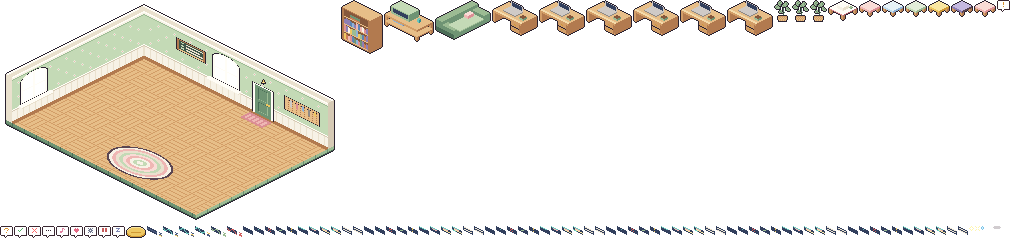
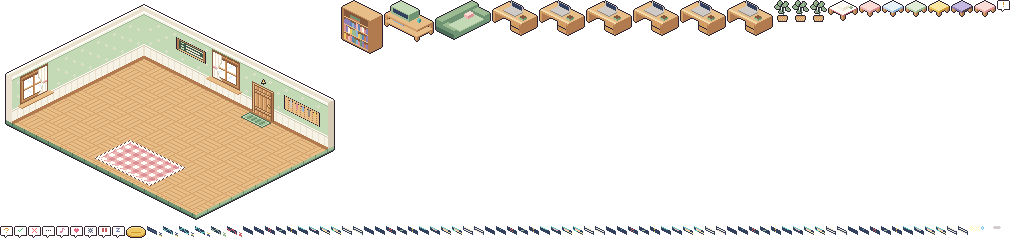
방: 러그·문·창문을 레퍼런스 도트 스타일로 다시 그림
- 창문: 원목 프레임·십자 창살·유리 사선 반짝임·한쪽으로 묶은 레이스 커튼
- 문: 세로 판자·가로 띠·못 자국·놋쇠 손잡이의 원목 문
- 러그: 타원 대신 깅엄 체크 피크닉 담요, 스티치 테두리
- 벽 장식은 픽셀 격자로 그려 두 시점 모두 1px 그대로 찍히게 함

Changed region(s): [[0.1875, 0.2042, 0.2812, 0.525], [0.0938, 0.5833, 0.1875, 0.7875], [0.0, 0.2625, 0.0625, 0.4667]]

diff --git a/tools/art/cottage.py b/tools/art/cottage.py
@@ -226,34 +226,115 @@ def arch_inside(u, z, u0, w, z0, h, inset=0):
 GLASS = object()   # marker: leave the pixel clear so the app's sky shows through
 
 
+# Wall fixtures are drawn as pixel grids: on a wall, half a unit along it and one unit up is
+# exactly one pixel in both cameras, so a grid cell maps 1:1 onto the screen (iso just shears it).
+def grid_at(grid, u, z, u0, ztop):
+    """the grid's cell under wall point (u, z); grid rows run top-down from height ztop"""
+    i, j = math.floor((u - u0) * 2), math.floor(ztop - z)
+    if 0 <= j < len(grid) and 0 <= i < len(grid[j]):
+        return grid[j][i]
+    return None
+
+
+def window_grid(w, h):
+    """wooden casement with a cross mullion, streaked glass and a gathered lace curtain on the left"""
+    g = [['h2'] * w for _ in range(h)]
+    for j in range(h):
+        for i in range(w):
+            if i == 0 or j == 0 or i == w - 1 or j == h - 1:
+                g[j][i] = 'h0'
+            elif j == 1 or i == 1:
+                g[j][i] = 'h3'
+            elif j == h - 2 or i == w - 2:
+                g[j][i] = 'h1'
+    x0, x1, y0, y1 = 3, w - 3, 5, h - 3            # glass area (header beam above it)
+    for i in range(2, w - 2):
+        g[2][i], g[3][i], g[4][i] = 'h2', 'h1', 'h0'
+    mx, my = w // 2 - 1, y0 + (y1 - y0) // 2 - 1
+    for j in range(y0, y1):
+        for i in range(x0, x1):
+            if i in (x0, x1 - 1) or j == y1 - 1:
+                g[j][i] = 'h0'
+            elif i in (mx, mx + 1):
+                g[j][i] = 'h2' if i == mx else 'h1'
+            elif j in (my, my + 1):
+                g[j][i] = 'h3' if j == my else 'h1'
+            elif j == y0:
+                g[j][i] = 'h0'
+            else:
+                g[j][i] = GLASS
+    # two short diagonal glints per pane
+    for pi, pj in ((x0 + 2, y0 + 2), (mx + 3, y0 + 2), (x0 + 2, my + 3), (mx + 3, my + 3)):
+        for d in range(4):
+            for t in (0, 1):
+                i, j = pi + 3 - d + t, pj + d
+                if g[j][i] is GLASS:
+                    g[j][i] = 'b3'
+    # curtain: straight under the rod, tied back at the middle, flaring to a lace hem
+    tie = y0 + (y1 - y0) // 2 + 2
+    for j in range(2, h - 1):
+        if j < tie:
+            wd = 9 - max(0, (j - 8)) * 5 // max(1, tie - 8)
+        else:
+            wd = 4 + (j - tie) * 5 // max(1, h - 2 - tie)
+        for i in range(1, 1 + wd):
+            edge = i == wd
+            if edge:
+                col = 'c0'
+            elif j == tie or j == tie - 1:
+                col = 'r1' if j == tie else 'r2'
+            elif (i + (1 if j > tie else 0)) % 3 == 0:
+                col = 'c1'
+            else:
+                col = 'c3'
+            g[j][i] = col
+        if j == h - 2:
+            for i in range(1, 1 + wd):
+                g[j][i] = 'c1' if i % 2 else 'c3'
+    for i in range(0, w):                           # curtain rod
+        g[1][i] = 'h0' if i in (0, w - 1) else ('y0' if i % 7 == 0 else 'h0')
+    return g
+
+
+def door_grid(w, h):
+    """wooden plank door in a frame: plank seams, a cross brace, nail dots and a brass knob"""
+    g = [['h2'] * w for _ in range(h)]
+    for j in range(h):
+        for i in range(w):
+            if i == 0 or i == w - 1 or j == 0:
+                g[j][i] = 'h0'
+            elif i in (1, w - 2) or j == 1:
+                g[j][i] = 'h3' if (i == 1 or j == 1) else 'h1'
+            elif i == 2 or i == w - 3 or j == 2:
+                g[j][i] = 'h0'
+            else:
+                k_ = (i - 3) % 4
+                g[j][i] = 'h1' if k_ == 3 else ('h3' if k_ == 0 else 'h2')
+    for bj in (6, h - 7):                           # cross braces
+        for i in range(3, w - 3):
+            g[bj][i] = 'h0'
+            g[bj + 1][i] = 'h3'
+            g[bj + 2][i] = 'h2'
+            g[bj + 3][i] = 'h0'
+        for i in range(4, w - 4, 4):
+            g[bj + 2][i] = 'h0'                     # nails
+    kx, ky = w - 6, h // 2
+    for (i, j), col in {(0, 0): 'h0', (1, 0): 'h0', (-1, 1): 'h0', (0, 1): 'y2', (1, 1): 'y1', (2, 1): 'h0',
+                        (-1, 2): 'h0', (0, 2): 'y1', (1, 2): 'y0', (2, 2): 'h0', (0, 3): 'h0', (1, 3): 'h0'}.items():
+        g[ky + j][kx + i] = col
+    return g
+
+
+WIN_GRID = window_grid(R_WIN[1] * 2, R_WIN[3])
+DOOR_GRID = door_grid(R_DOOR[1] * 2, R_DOOR[2])
+
+
 def window_col(u, z, u0, w, z0, h):
-    if not arch_inside(u, z, u0, w, z0, h):
-        return None
-    if not arch_inside(u, z, u0, w, z0, h, .5):
-        return 'ink'
-    if not arch_inside(u, z, u0, w, z0, h, 1.5):
-        return 'c3'
-    if abs(u - (u0 + w / 2)) < .5 or abs(z - (z0 + h * .45)) < .5:
-        return 'c3'
-    return GLASS
+    return grid_at(WIN_GRID, u, z, u0, z0 + h)
 
 
 def door_col(u, z, u0, w, h):
-    if not (u0 <= u < u0 + w and z < h):
-        return None
-    if u < u0 + .5 or u >= u0 + w - .5 or z >= h - .5:
-        return 'ink'
-    if u < u0 + 1.5 or u >= u0 + w - 1.5 or z >= h - 1.5:
-        return 'c3'
-    if abs(u - (u0 + w - 3)) < .8 and abs(z - h * .45) < .8:
-        return 'y1'
-    for pz0, pz1 in ((3, h * .42), (h * .5, h - 4)):
-        if u0 + 3 <= u < u0 + w - 3 and pz0 <= z < pz1:
-            if u < u0 + 3.5 or z >= pz1 - .7:
-                return 's0'
-            if u >= u0 + w - 3.5 or z < pz0 + .7:
-                return 's2'
-    return 's1'
+    return grid_at(DOOR_GRID, u, z, u0, h)
 
 
 def chalk_col(u, z, u0, w, z0, h, done=3):
@@ -302,16 +383,56 @@ def left_wall(u, z):
     return v if v is not None else wall_col(u, z)
 
 
-def rug(c):
-    cx, cy, rx, ry = RUG
-    rings = ['c2', 's3', 'c2', 'r2', 'r3', 's3', 'c1', 'r2', 'c2', 's3']
+def cloth(c, x0, y0, x1, y1, fill, rim, band):
+    """a flat cloth on the floor: rasterised first, then its rings are counted in screen pixels so the
+    stitched rim and the border band stay exactly 1 px wide in both cameras"""
+    cells = {}
 
-    def col(x, y):
-        d = math.sqrt(((x - cx) / rx) ** 2 + ((y - cy) / ry) ** 2)
-        if d > 1:
-            return None
-        return 'ink2' if d > .93 else rings[int(d * 9.6) % len(rings)]
-    face_top(c, cx - rx, cy - ry, cx + rx, cy + ry, 0, col)
+    class Rec:
+        def px(self, sx, sy, v):
+            cells[(sx, sy)] = v
+    face_top(Rec(), x0, y0, x1, y1, 0, lambda x, y: (x, y))
+    ring, edge = {}, [p for p in cells if any((p[0] + dx, p[1] + dy) not in cells
+                                              for dx, dy in ((1, 0), (-1, 0), (0, 1), (0, -1)))]
+    for p in edge:
+        ring[p] = 0
+    d = 0
+    while edge:
+        d += 1
+        nxt = []
+        for (sx, sy) in edge:
+            for dx, dy in ((1, 0), (-1, 0), (0, 1), (0, -1)):
+                q = (sx + dx, sy + dy)
+                if q in cells and q not in ring:
+                    ring[q] = d
+                    nxt.append(q)
+        edge = nxt
+    for (sx, sy), (x, y) in cells.items():
+        r = ring[(sx, sy)]
+        if r == 0:
+            col = rim(sx, sy)
+        elif r <= len(band):
+            col = band[r - 1](sx, sy) if callable(band[r - 1]) else band[r - 1]
+        else:
+            col = fill(x, y)
+        c.px(sx, sy, col)
+
+
+def rug(c):
+    """picnic-blanket gingham in rose and cream, with a stitched rim like the reference blankets"""
+    cx, cy, rx, ry = RUG
+
+    def gingham(x, y):
+        a, b = math.floor(x / 2) % 2, math.floor(y / 2) % 2
+        return 'r1' if a and b else ('r2' if a or b else 'c3')
+    cloth(c, cx - rx, cy - ry, cx + rx, cy + ry, gingham,
+          lambda sx, sy: 'ink2' if (sx + sy) % 2 else 'c3', ['c3', lambda sx, sy: 'r1' if (sx + sy) % 4 == 0 else 'c3'])
+
+
+def doormat(c):
+    x0, x1 = R_DOOR[0], R_DOOR[0] + R_DOOR[1]
+    cloth(c, x0, 1, x1, 6, lambda x, y: 's2' if math.floor(x) % 2 else 's1',
+          k('s0'), ['s3'])
 
 
 def shell():
@@ -369,15 +490,14 @@ def shell():
         face_front(c, X, X + CAP, Y, 0, Z, k('c0'))
         face_front(c, -CAP, X + CAP, Y, -4, 0, lambda u, z: 's0' if z < -3 else 's1' if u % 6 > .7 else 's0')
     # sills and the door bell
-    box(c, R_WIN[0] - 1, 0, R_WIN[2] - 1, R_WIN[1] + 2, 2, 1, 'c3', 'c2', 'c1')
+    box(c, R_WIN[0] - 1, 0, R_WIN[2] - 1, R_WIN[1] + 2, 2, 1, 'h3', 'h2', 'h1')
     if MODE == 'iso':
-        box(c, 0, L_WIN[0] - 1, L_WIN[2] - 1, 2, L_WIN[1] + 2, 1, 'c3', 'c2', 'c1')
+        box(c, 0, L_WIN[0] - 1, L_WIN[2] - 1, 2, L_WIN[1] + 2, 1, 'h3', 'h2', 'h1')
     bx, by = Pi(R_DOOR[0] + R_DOOR[1] / 2, 0, R_DOOR[2] + 4)
     c.stamp(['..O..', '.OYO.', '.OYO.', 'OYHYO', 'OOOOO', '..O..'], bx - 2, by - 3, {'O': 'ink', 'Y': 'y1', 'H': 'y2'})
     # floor things
     rug(c)
-    face_top(c, R_DOOR[0], 1, R_DOOR[0] + R_DOOR[1], 6, 0,
-             lambda a, b: 'r1' if (a < R_DOOR[0] + 1 or a >= R_DOOR[0] + R_DOOR[1] - 1 or b < 2 or b >= 5) else ('r1' if a % 2 < .7 else 'r2'))
+    doormat(c)
     # outline the room's silhouette (glass is interior, so it stays clear)
     c.outline()
     for key in glass:
